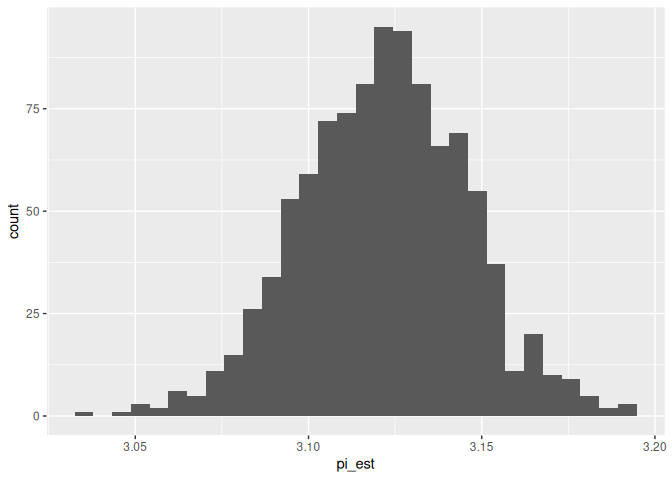
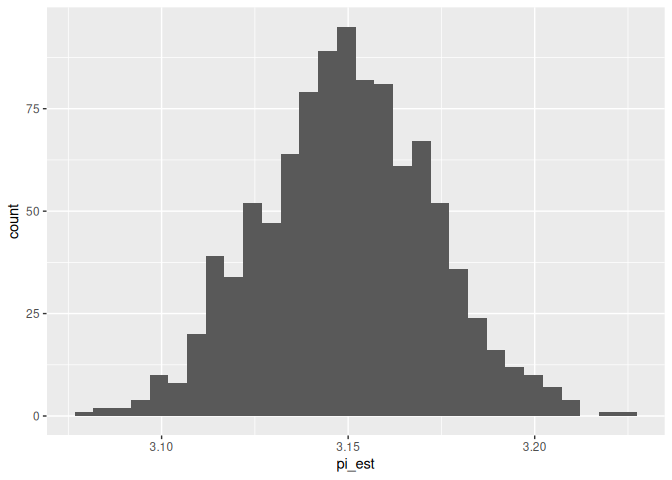
Challenge Corrections

diff --git a/data-science-curriculum-build/data-science-curriculum-build/challenges/c07-monte-carlo-assignment.md b/data-science-curriculum-build/data-science-curriculum-build/challenges/c07-monte-carlo-assignment.md
@@ -196,6 +196,7 @@ square $x \in [0, 1]$ and $y \in [0, 1]$.
 
 ``` r
 ## TASK: Choose a sample size and generate samples
+set.seed(42)
 n <- 5000
 x <- runif(n)
 y <- runif(n)
@@ -344,7 +345,7 @@ df_q3
     ## # A tibble: 1 × 1
     ##   pi_est
     ##    <dbl>
-    ## 1   3.12
+    ## 1   3.15
 
 Use the following to check that you’ve used the correct variable names.
 (NB. This does not check correctness.)
@@ -393,6 +394,7 @@ estimate. Answer the questions below.
 
 ``` r
 ## TASK: Finish the code below
+set.seed(42)
 df_q4 <- 
   df_q1 %>% 
   bootstraps(., times = 1000) %>% 
@@ -424,7 +426,7 @@ df_q4 %>%
 
 - What is a range of plausible values, based on the sampling
   distribution you’ve generated?
-  - Range of plausible values go from more than 3.0 to less than 3.35.
+  - Range of plausible values go from more than 3.075 to less than 3.25.
 
 ### **q5** Bootstrap percentile confidence interval
 
@@ -451,7 +453,7 @@ df_q5
     ## # A tibble: 1 × 2
     ##   pi_lo pi_up
     ##   <dbl> <dbl>
-    ## 1  3.07  3.17
+    ## 1  3.11  3.20
 
 ### **q6** CLT confidence interval
 
@@ -471,34 +473,31 @@ done something *wrong* in one of the tasks….
   summarize(
     pi_est = mean(stat(x, y)),
     se = sd(stat(x,y)) / sqrt(n),
-    pi_lo = pi_est - qnorm( 1 - (1 - alpha) / 2 ) * se,
-    pi_hi = pi_est + qnorm( 1 - (1 - alpha) / 2 ) * se,
+    pi_lo = pi_est - qnorm( 1 - (1 - 0.95) / 2 ) * se,
+    pi_hi = pi_est + qnorm( 1 - (1 - 0.95) / 2 ) * se,
   )
 ```
 
     ## # A tibble: 1 × 4
     ##   pi_est     se pi_lo pi_hi
     ##    <dbl>  <dbl> <dbl> <dbl>
-    ## 1   3.12 0.0234  3.12  3.12
+    ## 1   3.15 0.0231  3.10  3.19
 
 **Observations**:
 
 - Does your intervals include the true value of $\pi$?
   - (Bootstrap CI: yes)
-  - (CLT CI: no)
+  - (CLT CI: yes)
 - How closely do your bootstrap CI and CLT CI agree?
-  - The bootstrap CI has a much larger range than the CLT CI. This is
-    likely due to a coding issue, as currently there is a ‘.04’
-    difference between the ‘pi_lo’ values and a .04 difference between
-    the ‘pi_hi’ values as well.
+  - They agree very closely. There is less than a .01 difference between
+    both the pi_lo and pi_hi
 - Comment on the width of your CI(s). Would your estimate of $\pi$ be
   good enough for roughly estimating an area (e.g., to buy enough paint
   for an art project)? Would your estimate of $\pi$ be good enough for
   precisely calculating a trajectory (e.g., sending a rocket into
   orbit)?
   - I would say these values are good enough for a rough estimate, as
-    even the bootstrap CI that is much larger than the CLT CI has a
-    range smaller than .1
+    they both approximate pi with less than a .06 error on either side
   - I would not want to have either of these approximations of $\pi$ if
     I was sending something into orbit.
 - What would be a *valid* way to make your CI more narrow?
